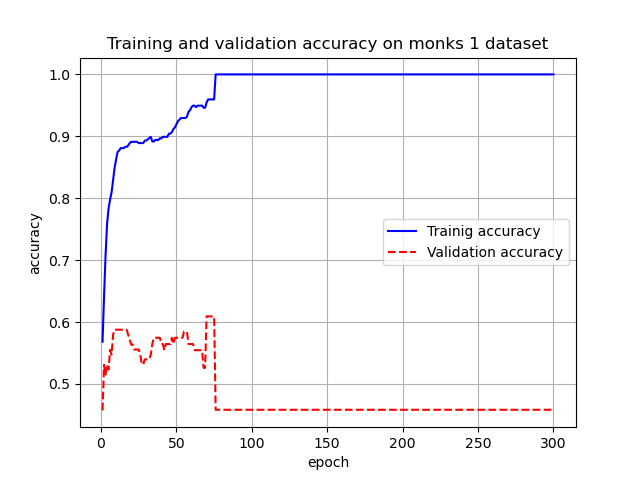
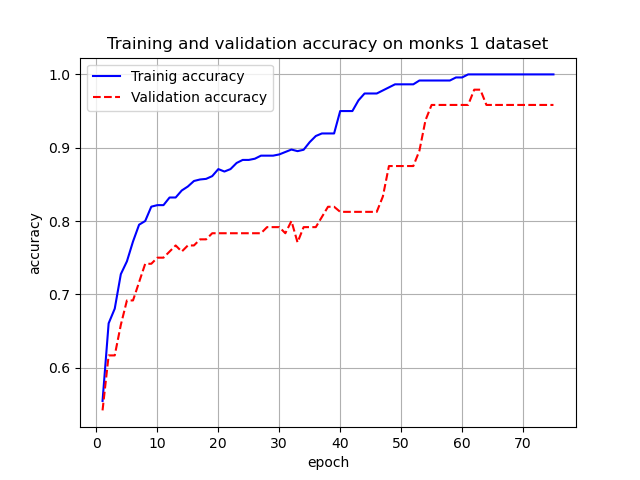
cv

diff --git a/cross_validation.py b/cross_validation.py
@@ -1,10 +1,23 @@
 import numpy as np
+from sklearn.metrics import accuracy_score
+from sklearn.utils import shuffle
 from network import Network
 from utils import linear_decay
 
-# TODO: gestire accuracy_score + usare maschere e/o pulire codice + MOMENTUM(?)
+# TODO: gestire accuracy_score + MOMENTUM(?)
 
-def cross_validation(data, targets, X_test, k, epochs):
+def cross_validation(X_train, y_train, X_test, k, epochs):
+
+    X_train, y_train = shuffle(X_train, y_train) # random reorganize the order of the data
+    
+    number_used_data = len(X_train) - (len(X_train) % k) # numbers of data and target used in cross validation
+    data = []
+    targets = []
+    for i in range(number_used_data):
+        data.append(X_train[i])
+        targets.append(y_train[i])
+        
+    # convert to numpy object        
     data = np.array(data, dtype=np.int64) 
     targets = np.array(targets, dtype=np.int64)
     
@@ -17,7 +30,7 @@ def cross_validation(data, targets, X_test, k, epochs):
     val_error_fold = []
     tr_accuracy_fold = []
     val_accuracy_fold = []
-    pred = []
+    accuracy_fold = []
 
     # cross validation
     for i in range(k):
@@ -26,11 +39,12 @@ def cross_validation(data, targets, X_test, k, epochs):
 
         net = Network(activation_out='tanh', epochs=300, batch_size=32, learning_rate_fun=linear_decay(200, 0.1))
         
-        # train
-        tr_error, val_error, tr_accuracy, val_accuracy = net.fit(tr_data, tr_targets, val_data, val_targets)  # error and accuracy values for each epoch        
+        # --------------train--------------
+        # return error and accuracy values for each epoch 
+        tr_error, val_error, tr_accuracy, val_accuracy = net.fit(tr_data, tr_targets, val_data, val_targets)        
+        
         # reshape
         for i in range(epochs - len(tr_error)):
-            # TODO: se non funzionano maschere per ufunc numpy, togliere e mettere sistemare mean_std
             tr_error.append(0)
             val_error.append(0)
             tr_accuracy.append(0)
@@ -40,17 +54,19 @@ def cross_validation(data, targets, X_test, k, epochs):
         val_error = np.array(val_error)
         tr_accuracy = np.array(tr_accuracy)
         val_accuracy = np.array(val_accuracy)   
-          
-        # test
-        pred.append(net.predict(val_data)) # TODO: usarlo!!!!!
 
         # update errors and accuracy: 
         tr_error_fold.append(tr_error)        
         val_error_fold.append(val_error)
         tr_accuracy_fold.append(tr_accuracy)      
         val_accuracy_fold.append(val_accuracy) 
-        # TODO: gestire accuracy_score -> tr_accuracy.append(accuracy_score(y_true=y_train, y_pred=predict_tr)) 
-
+          
+        # --------------test--------------
+        pred = net.predict(val_data)
+        flattened_pred = flatten_pred(pred)
+        accuracy = accuracy_score(y_true=val_targets, y_pred=flattened_pred)
+        accuracy_fold.append(accuracy) # update accuracy
+        
     # convert to numpy object
     tr_error_fold = np.array(tr_error_fold, dtype=object)
     val_error_fold = np.array(val_error_fold, dtype=object)
@@ -58,25 +74,14 @@ def cross_validation(data, targets, X_test, k, epochs):
     val_accuracy_fold = np.array(val_accuracy_fold, dtype=object)
     
     # results i.e. average and std deviation of error and accuracy for each epoch
-    #TODO: vedere se si riescono ad usare funzioni np inizializzando maschere con np.ufunc  
-    """#where_bool = nnz(tr_error_fold)
-    where_bool = np.ufunc.reduce(tr_error_fold, axis=0, dtype=None, out=None, keepdims=False, where=True)
-    avg_tr_error = np.mean(tr_error_fold, axis=0, where=where_bool)  # average  
-    dev_tr_error = np.std(tr_error_fold, axis=0, where=where_bool)  # standard deviation
-    avg_val_error = np.mean(val_error_fold, axis=0)
-    dev_val_error = np.std(val_error_fold)    
-    avg_tr_accuracy = np.mean(tr_accuracy_fold, axis=0)
-    dev_tr_accuracy = np.std(tr_accuracy_fold)
-    avg_val_accuracy = np.mean(val_accuracy_fold, axis=0)
-    dev_val_accuracy = np.std(val_accuracy_fold)"""
-    avg_tr_error, dev_tr_error = mean_std(tr_error_fold)
-    avg_val_error, dev_val_error = mean_std(val_error_fold)
-    avg_tr_accuracy, dev_tr_accuracy = mean_std(tr_accuracy_fold)
-    avg_val_accuracy, dev_val_accuracy = mean_std(val_accuracy_fold)
+    avg_tr_error, dev_tr_error = mean_std_dev(tr_error_fold)
+    avg_val_error, dev_val_error = mean_std_dev(val_error_fold)
+    avg_tr_accuracy, dev_tr_accuracy = mean_std_dev(tr_accuracy_fold)
+    avg_val_accuracy, dev_val_accuracy = mean_std_dev(val_accuracy_fold)
     
-    pred_on_test_data = net.predict(X_test) #???????
+    pred_on_test_data = net.predict(X_test)
 
-    return avg_tr_error, avg_val_error, avg_tr_accuracy, avg_val_accuracy, pred_on_test_data
+    return avg_tr_error, avg_val_error, avg_tr_accuracy, avg_val_accuracy, accuracy_fold, pred_on_test_data
 
 def create_sets(data_folds, target_folds, val_idx):
 
@@ -114,30 +119,12 @@ def create_sets(data_folds, target_folds, val_idx):
 
     return tr_data, tr_targets, val_data, val_targets
 
-def nnz(fold):
-    # TODO: se inutile togliere!!!
-    # returns an array of booleans of the same size as the input
-    # true where the element are nnz
-    
-    fold_bool = np.ones(fold.shape, dtype=np.bool8)
-    i = 0
-    
-    for arr in fold:
-        j = 0
-        for elem in arr:
-            if elem == 0:
-                fold_bool[i][j] = 0
-            j += 1
-        i += 1
-    
-    return fold_bool
-
-def mean_std(data_fold):
+def mean_std_dev(data_fold):
     # return average and std deviation for each epoch
     k = data_fold.shape[0]
     epochs = data_fold.shape[1]
     mean = [] # init
-    std = []
+    std_dev = []
     
     for j in range(epochs):
         mu = 0
@@ -153,6 +140,15 @@ def mean_std(data_fold):
             for i in range(k):
                 sigma += np.power((data_fold[i][j] - mu), 2)
             sigma = np.power((sigma / N), 0.5)
-            std.append(sigma)
+            std_dev.append(sigma)
     
-    return mean, std
+    return mean, std_dev
+
+def flatten_pred(pred):
+    flattened_pred = np.empty(len(pred))
+    for i in range(len(pred)):
+        if pred[i][0][0] > 0:
+            flattened_pred[i] = 1
+        else:
+            flattened_pred[i] = -1
+    return flattened_pred

diff --git a/monks.py b/monks.py
@@ -51,7 +51,7 @@ error_plot(all_train_errors, all_val_errors)
 accuracy_plot(tr_accuracy, val_accuracy)"""
 
 # cross validation
-avg_tr_error, avg_val_error, avg_tr_accuracy, avg_val_accuracy, pred = cross_validation(X_train, y_train, X_test, k=5, epochs=300)
+avg_tr_error, avg_val_error, avg_tr_accuracy, avg_val_accuracy, accuracy, pred = cross_validation(X_train, y_train, X_test, k=5, epochs=300)
 
 error_plot(avg_tr_error, avg_val_error)
 accuracy_plot(avg_tr_accuracy, avg_val_accuracy)
